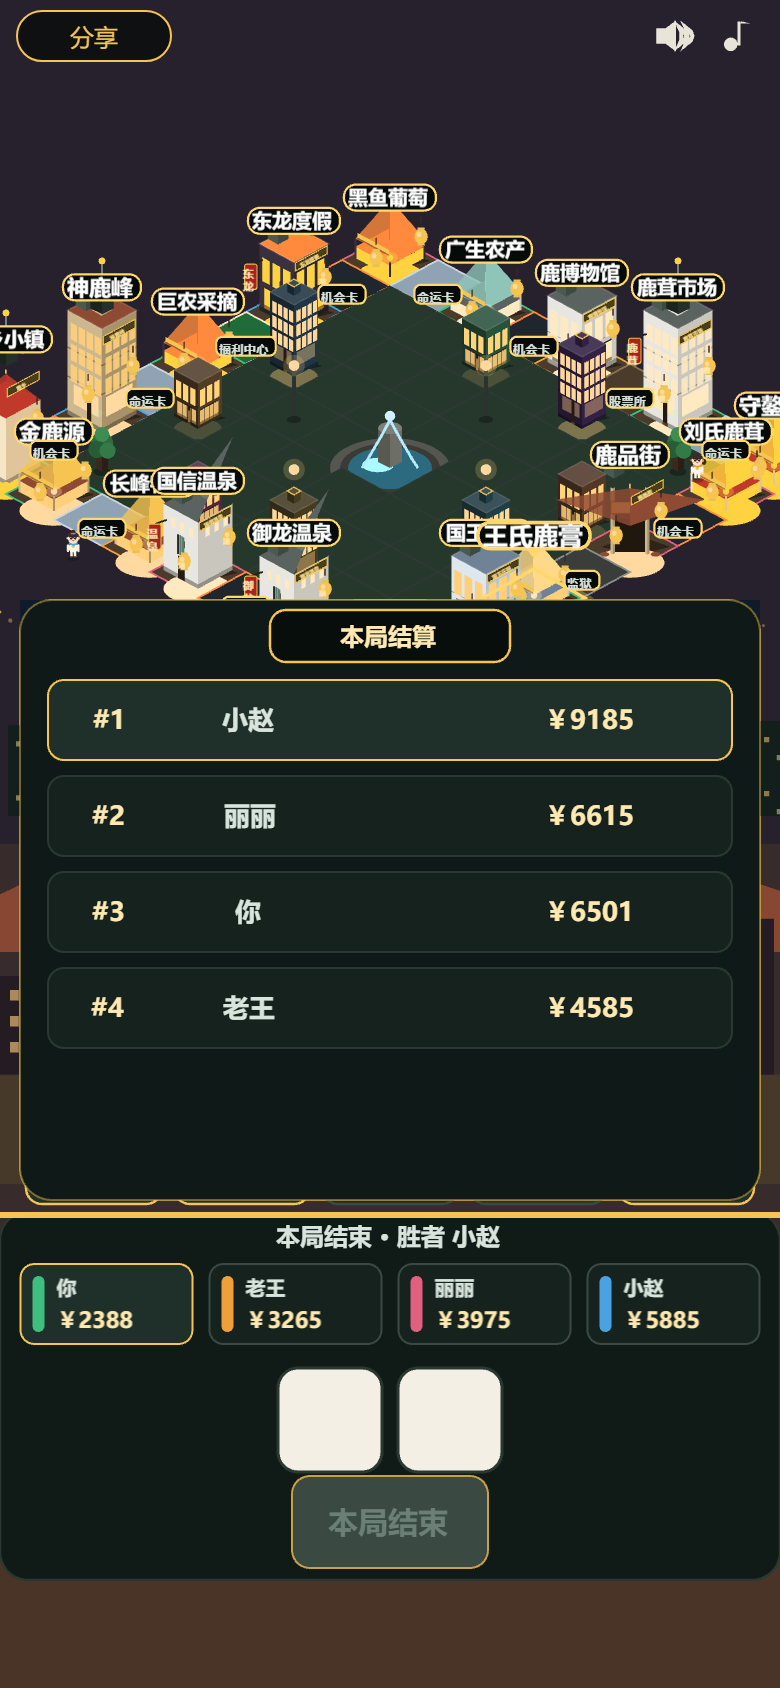
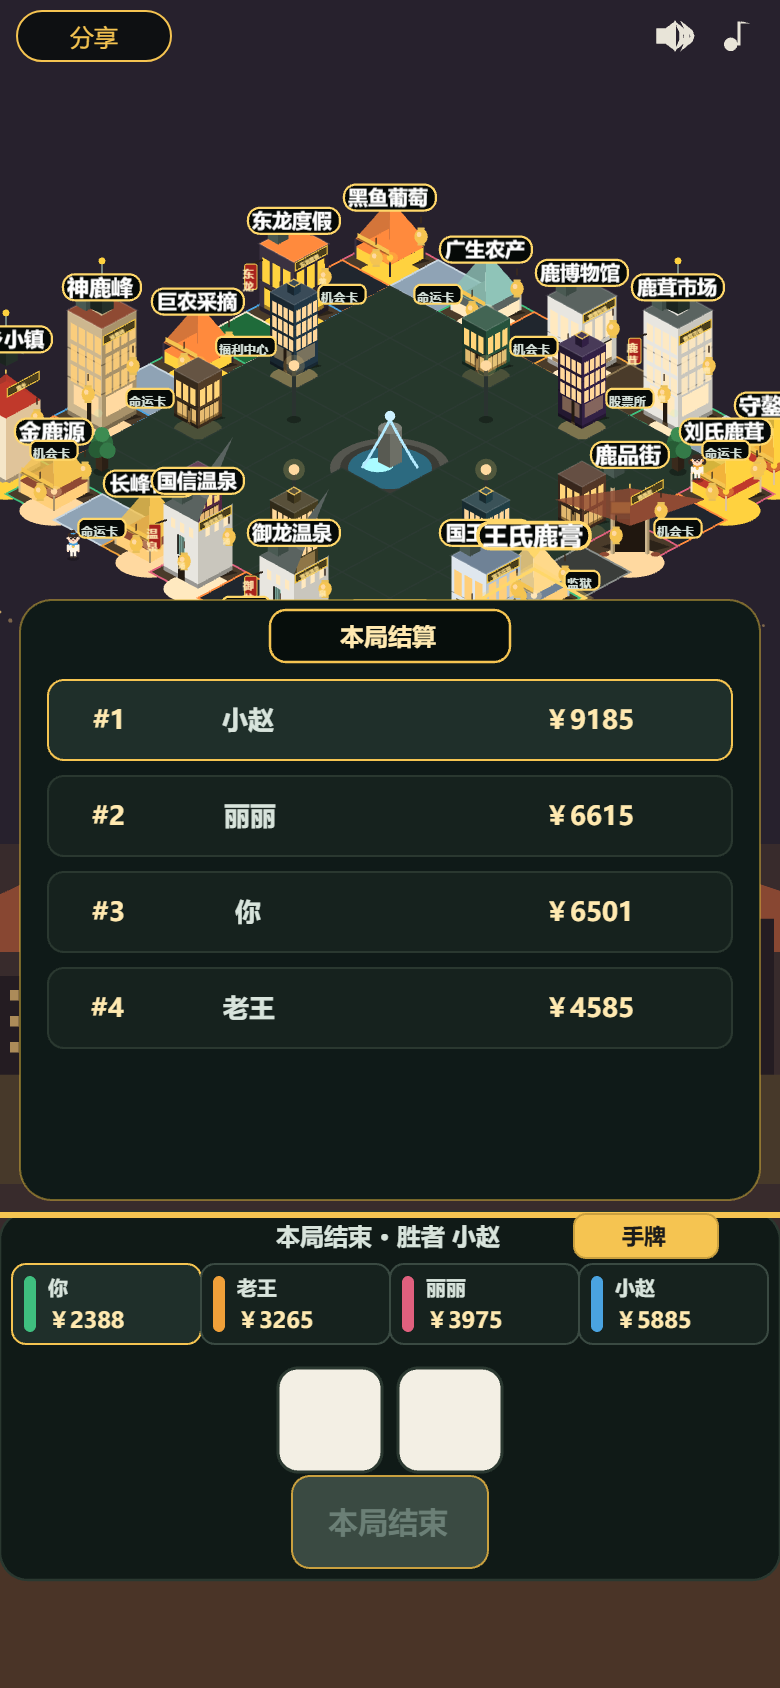
feat(mono): 新增游戏内风格控制台（逐栋选色/批量/单素材微调/导出 JSON），仅 ?debug=1
- src/ui/themeConsole.ts：点棋盘任一格拾取元素（台位命中矩形，近处优先/同格取体量大者）→ 5 套 palette 色卡点选即 paint() 实时预览；按类批量（全部 L1/L2/L3 · 全部道具 · 全部环境层 bg.*）；选中元素 params JSON 表单（单素材独立风格入口）；导出 theme.json（原始 bindings + 每条改动转精确 id binding，可直接回填 config/theme.json）

- main.ts：instantiateDeps 提为可变对象（控制台就地改写 theme 字段），debug 块内装配控制台并把句柄挂 __monoMain.themeConsole 供闸门 V3/V4 程序化驱动

- 改动只在内存，绝不写 localStorage（避免与 ?skin= 语义互串）；生产版（无 ?debug=1）零占用，已实测无控制台节点

- 本地自检：tsc 通过、check 54 文件/492 例全绿、check-hardcoded clean；实测 s4.l2 换 night-neon 即时生效、prop.signTower.glow=false 不影响其它 prop.*、导出末条即改动、reset 还原；顺带更新 e2e 终局截图（上次整局点击跑通产出）

diff --git a/monopoly/src/ui/themeConsole.ts b/monopoly/src/ui/themeConsole.ts
@@ -1,0 +1,304 @@
+/**
+ * 游戏内风格控制台（spec §9）：**仅 `?debug=1` 挂载**，生产版零占用。
+ *
+ * 能力：逐栋选色（点棋盘任一格 → 5 套色卡）、按类批量（全部 L1/L2/L3 · 全部道具 · 全部环境层）、
+ * 单素材 `params` 微调、导出完整 `theme.json`（复制回填 `public/config/theme.json`）。
+ *
+ * 铁律：改动**只存内存**（本模块的 `edits` 表），绝不写 `localStorage`——避免与 `?skin=` 语义互串；
+ * 权威永远是 `theme.json`。导出 = 「原始 bindings + 每条改动转成的精确 id binding」（后写覆盖先写）。
+ *
+ * 本模块不含任何绘制逻辑：写回经 `deps.apply()`，由 `main.ts` 重算生效补丁并 `paint()` 实时预览。
+ */
+import { resolvePlacement, type PlacementOpts } from '../render/Scene';
+import type { Geo } from '../render/iso';
+import type { Instance } from '../skin/instantiate';
+import { STAGE_H, STAGE_W } from '../skin/layout';
+import type { Theme, ThemeBinding, ThemePatch } from '../skin/theme';
+
+export interface ThemeConsoleDeps {
+  /** 编译前的 `theme.json`（色卡与导出 JSON 的基准） */
+  theme: Theme;
+  /** 全部注册表元素 id（批量指派的作用域） */
+  ids: string[];
+  geo: Geo;
+  placement: PlacementOpts;
+  /** 当前场景实例（点选命中用；每帧重建，故取回调而非快照） */
+  instances: () => Instance[];
+  /** 读当前**生效**补丁（params 表单初值 = 实际生效值，避免「看到的和生效的不一样」） */
+  patchOf: (id: string) => ThemePatch | undefined;
+  /** 写回：`基准 ⊕ edits` 重算生效补丁并重画（实时预览） */
+  apply: (edits: Record<string, ThemePatch>) => void;
+}
+
+export interface ThemeConsoleHandle {
+  mount(root: HTMLElement): void;
+  /** 给一组元素指派 palette：单个传 id、批量传正则（面板按钮与闸门共用同一入口） */
+  setPalette(target: string | RegExp, paletteId: string): void;
+  /** 单素材 `params` 覆盖（逐键压过 palette）——「单素材独立风格」的可视化入口 */
+  setParams(id: string, params: Record<string, unknown>): void;
+  /** 当前内存改动（只读快照） */
+  edits(): Record<string, ThemePatch>;
+  /** 完整 `theme.json`：原始 bindings + 每条改动（可直接回填 config/theme.json） */
+  exportJson(): Theme;
+  /** 丢弃全部内存改动，回到 `theme.json` 原样 */
+  reset(): void;
+}
+
+/** 批量指派的作用域（spec §9）：「全部环境层」= `AtmosphereView` 的 `bg.*` 七件 */
+const BATCHES: { label: string; re: RegExp }[] = [
+  { label: '全部 L1', re: /^building\.[^.]+\.l1$/ },
+  { label: '全部 L2', re: /^building\.[^.]+\.l2$/ },
+  { label: '全部 L3', re: /^building\.[^.]+\.l3$/ },
+  { label: '全部道具', re: /^prop\./ },
+  { label: '全部环境层', re: /^bg\./ },
+];
+
+/** 可点选元素：与 `theme.json` 的 binding 域一致（UI / 特效 / 棋子的颜色走 skin tokens，不由本表管） */
+const PICKABLE = /^(building|board|prop)\./;
+
+/** 命中容差：菱形下沿外扩，点格子边缘也算命中该格 */
+const PICK_PAD = 6;
+
+export function createThemeConsole(deps: ThemeConsoleDeps): ThemeConsoleHandle {
+  /** 内存改动表（唯一状态；`apply()` 时与基准补丁重算，故不会累积漂移） */
+  const edits: Record<string, ThemePatch> = {};
+  const paletteIds = Object.keys(deps.theme.palettes);
+  let selected: string | null = null;
+  /** 批量按钮使用的「当前色卡」：点色卡即更新，故批量永远跟随最近一次预览选择 */
+  let picked: string | null = paletteIds[0] ?? null;
+
+  let box: HTMLDivElement | null = null;
+  let idInput: HTMLInputElement | null = null;
+  let paramsArea: HTMLTextAreaElement | null = null;
+  let exportArea: HTMLTextAreaElement | null = null;
+  let batchHint: HTMLSpanElement | null = null;
+  const swatches: HTMLButtonElement[] = [];
+
+  const idsFor = (target: string | RegExp): string[] =>
+    (typeof target === 'string' ? [target] : deps.ids.filter((id) => target.test(id)));
+
+  const flush = (): void => { deps.apply({ ...edits }); };
+
+  /** 面板刷新：选中 id / params 实际生效值 / 色卡高亮 / 批量提示（改动后与点选后各调一次） */
+  const sync = (): void => {
+    if (idInput) idInput.value = selected ?? '';
+    if (paramsArea) {
+      const p = selected ? deps.patchOf(selected)?.params ?? {} : {};
+      paramsArea.value = JSON.stringify(p, null, 1);
+    }
+    for (const [i, b] of swatches.entries()) {
+      const on = paletteIds[i] === picked;
+      b.style.outline = on ? '2px solid #f5c451' : 'none';
+    }
+    if (batchHint) batchHint.textContent = picked ?? '（无）';
+  };
+
+  const setPalette: ThemeConsoleHandle['setPalette'] = (target, paletteId) => {
+    const pal = deps.theme.palettes[paletteId];
+    if (!pal || Object.keys(pal).length === 0) return;
+    for (const id of idsFor(target)) {
+      const prev = edits[id];
+      /* palette 展开成 params（与 compileTheme 同口径）⇒ 导出即「钉住的逐元素补丁」 */
+      edits[id] = { preset: prev?.preset, params: { ...(prev?.params ?? {}), ...pal } };
+    }
+    picked = paletteId;
+    if (typeof target === 'string') selected = target;
+    flush();
+    sync();
+  };
+
+  const setParams: ThemeConsoleHandle['setParams'] = (id, params) => {
+    const prev = edits[id];
+    edits[id] = { preset: prev?.preset, params: { ...(prev?.params ?? {}), ...params } };
+    selected = id;
+    flush();
+    sync();
+  };
+
+  /** 屏幕坐标 → 元素 id：按台位命中矩形拾取（近处优先、同格取体量大者），非网格元素（`bg.*`）走 id 输入框 */
+  const pickAt = (x: number, y: number): string | null => {
+    const hits: { id: string; near: number; tall: number }[] = [];
+    for (const inst of deps.instances()) {
+      if (!PICKABLE.test(inst.id)) continue;
+      const p = resolvePlacement(
+        { id: inst.id, c: inst.c, r: inst.r, slot: inst.slot, lift: inst.lift, box: inst.box, mount: inst.mount, scale: inst.scale },
+        deps.geo,
+        deps.placement,
+      );
+      const hw = (inst.box.w / 2) * p.s;
+      const hh = (inst.box.d / 2) * p.s;
+      if (x < p.cx - hw || x > p.cx + hw) continue;
+      if (y < p.cy - hh - inst.box.h * p.s || y > p.cy + hh + PICK_PAD) continue;
+      hits.push({ id: inst.id, near: inst.c + inst.r, tall: inst.box.h });
+    }
+    if (hits.length === 0) return null;
+    hits.sort((a, b) => b.near - a.near || b.tall - a.tall);
+    return hits[0].id;
+  };
+
+  const onCanvasDown = (ev: MouseEvent): void => {
+    const canvas = document.getElementById('stage');
+    if (!canvas) return;
+    const rect = canvas.getBoundingClientRect();
+    if (rect.width === 0 || rect.height === 0) return;
+    const x = (ev.clientX - rect.left) * (STAGE_W / rect.width);
+    const y = (ev.clientY - rect.top) * (STAGE_H / rect.height);
+    const id = pickAt(x, y);
+    if (!id) return;
+    selected = id;
+    sync();
+  };
+
+  /** 完整 `theme.json`：原始 bindings + 每条改动（后写覆盖先写，故新增条目必定生效） */
+  const exportJson = (): Theme => ({
+    palettes: deps.theme.palettes,
+    bindings: [
+      ...deps.theme.bindings,
+      ...Object.entries(edits).map(([id, p]): ThemeBinding => ({
+        match: id,
+        ...(p.preset ? { preset: p.preset } : {}),
+        params: { ...p.params },
+      })),
+    ],
+  });
+
+  const reset = (): void => {
+    for (const id of Object.keys(edits)) delete edits[id];
+    flush();
+    sync();
+  };
+
+  const line = (text: string, css = ''): HTMLDivElement => {
+    const d = document.createElement('div');
+    d.style.cssText = css;
+    d.textContent = text;
+    return d;
+  };
+
+  const row = (): HTMLDivElement => {
+    const d = document.createElement('div');
+    d.style.cssText = 'display:flex;gap:4px;flex-wrap:wrap;margin-top:4px';
+    return d;
+  };
+
+  const smallBtn = (label: string): HTMLButtonElement => {
+    const b = document.createElement('button');
+    b.textContent = label;
+    b.style.cssText =
+      'padding:2px 6px;border-radius:5px;cursor:pointer;font:inherit;' +
+      'border:1px solid #f5c451;background:rgba(245,196,81,.12);color:#f5c451';
+    return b;
+  };
+
+  return {
+    mount(root) {
+      box = document.createElement('div');
+      box.id = 'mono-theme-console';
+      box.style.cssText =
+        'position:fixed;left:6px;top:6px;width:198px;max-height:54vh;overflow:auto;z-index:11;' +
+        'background:rgba(6,10,8,.92);color:#d8e4dc;font:11px/1.5 ui-monospace,monospace;' +
+        'padding:6px 8px;border-radius:8px;border:1px solid rgba(245,196,81,.45)';
+      box.appendChild(line('风格控制台 · 仅 ?debug=1（改动只存内存）', 'color:#f5c451'));
+
+      if (paletteIds.length === 0) {
+        box.appendChild(line('theme.json 未加载：色卡不可用（导出仍可用）', 'color:#e08b7a'));
+      }
+
+      /* 选中元素：点棋盘任一格即填入；也可手输 id 选非网格元素（如 bg.streetLamp / prop.signTower） */
+      const idRow = row();
+      idRow.appendChild(line('选中'));
+      idInput = document.createElement('input');
+      idInput.style.cssText = 'flex:1;min-width:0;font:inherit;background:#101a16;color:#d8e4dc;border:1px solid #3a4a42;border-radius:4px;padding:1px 3px';
+      idInput.placeholder = '点棋盘 / 输 id';
+      idInput.addEventListener('change', () => { selected = idInput?.value.trim() || null; sync(); });
+      idRow.appendChild(idInput);
+      box.appendChild(idRow);
+
+      /* 5 套 palette 色卡：点一枚即给选中元素套色并实时预览（spec §9「逐栋选色」） */
+      const palRow = row();
+      for (const id of paletteIds) {
+        const pal = deps.theme.palettes[id] ?? {};
+        const b = smallBtn(id);
+        b.style.background = pal.wallL ?? '#101a16';
+        b.style.color = '#1b1b1b';
+        b.style.borderColor = pal.roof ?? '#f5c451';
+        b.title = Object.entries(pal).map(([k, v]) => `${k} ${v}`).join('\n');
+        b.onclick = () => { if (selected) setPalette(selected, id); else { picked = id; sync(); } };
+        swatches.push(b);
+        palRow.appendChild(b);
+      }
+      box.appendChild(palRow);
+
+      /* 按类批量（spec §9）：作用域见 BATCHES，色卡用最近一次预览选择 */
+      const bRow = row();
+      const head = line('批量 → ');
+      batchHint = document.createElement('span');
+      batchHint.style.color = '#f5c451';
+      head.appendChild(batchHint);
+      bRow.appendChild(head);
+      box.appendChild(bRow);
+      const cRow = row();
+      for (const { label, re } of BATCHES) {
+        const b = smallBtn(label);
+        b.onclick = () => { if (picked) setPalette(re, picked); };
+        cRow.appendChild(b);
+      }
+      box.appendChild(cRow);
+
+      /* 单素材微调：选中元素的 params（已含 palette 展开值），改哪个键就覆盖哪个键 */
+      box.appendChild(line('params（选中元素）', 'margin-top:6px;color:#9fb3a8'));
+      paramsArea = document.createElement('textarea');
+      paramsArea.style.cssText = 'width:100%;height:74px;box-sizing:border-box;font:inherit;background:#101a16;color:#d8e4dc;border:1px solid #3a4a42;border-radius:4px';
+      box.appendChild(paramsArea);
+      const pRow = row();
+      const applyBtn = smallBtn('应用 params');
+      applyBtn.onclick = () => {
+        if (!selected || !paramsArea) return;
+        try {
+          const parsed: unknown = JSON.parse(paramsArea.value);
+          if (typeof parsed !== 'object' || parsed === null || Array.isArray(parsed)) throw new Error('需要对象');
+          setParams(selected, parsed as Record<string, unknown>);
+        } catch (e) {
+          box?.appendChild(line(`params 不是合法对象 JSON：${String(e)}`, 'color:#e08b7a'));
+        }
+      };
+      pRow.appendChild(applyBtn);
+      const dropBtn = smallBtn('清空该元素改动');
+      dropBtn.onclick = () => {
+        if (selected) delete edits[selected];
+        flush();
+        sync();
+      };
+      pRow.appendChild(dropBtn);
+      box.appendChild(pRow);
+
+      /* 导出：原始 bindings + 每条改动（后写覆盖先写）⇒ 可直接回填 public/config/theme.json */
+      const eRow = row();
+      const expBtn = smallBtn('导出 theme.json');
+      expBtn.onclick = () => {
+        const json = JSON.stringify(exportJson(), null, 2);
+        if (exportArea) exportArea.value = json;
+        console.log('[mono] theme.json', json);
+      };
+      eRow.appendChild(expBtn);
+      const resetBtn = smallBtn('还原全部改动');
+      resetBtn.onclick = () => { reset(); };
+      eRow.appendChild(resetBtn);
+      box.appendChild(eRow);
+      exportArea = document.createElement('textarea');
+      exportArea.readOnly = true;
+      exportArea.style.cssText = 'width:100%;height:54px;box-sizing:border-box;font:inherit;background:#101a16;color:#9fe;border:1px solid #3a4a42;border-radius:4px';
+      box.appendChild(exportArea);
+
+      root.appendChild(box);
+      document.getElementById('stage')?.addEventListener('pointerdown', onCanvasDown as EventListener);
+      sync();
+    },
+
+    setPalette,
+    setParams,
+    exportJson,
+    reset,
+    edits() { return { ...edits }; },
+  };
+}

diff --git a/monopoly/src/main.ts b/monopoly/src/main.ts
@@ -1,5 +1,6 @@
 import { createStage } from './render/stage';
 import { createDebugPanel } from './debug/panel';
+import { createThemeConsole, type ThemeConsoleHandle } from './ui/themeConsole';
 import { loadSkin } from './skin/skinLoader';
 import { Scene } from './render/Scene';
 import type { PlacementOpts } from './render/Scene';
@@ -38,7 +39,7 @@ import {
 } from './skin/theme';
 import { preloadRelative, preloadSkinAssets } from './render/assets';
 import { createFx, motionFor, timeScaleFrom, type FxContext, type FxHandle, type FxKind } from './render/fx';
-import type { ElementSpec } from './skin/instantiate';
+import type { ElementSpec, InstantiateDeps } from './skin/instantiate';
 
 export const VERSION = '0.1.0';
 
@@ -185,13 +186,15 @@ export async function boot(): Promise<void> {
     pawnGap: 9.6, pawnFrontDy: 1.45, pawnScale: 0.62,
     buildingScale: BUILDING_SCALE, buildingYOffset: BUILDING_Y_OFFSET,
   };
+  /* 主题补丁挂在一个**可变对象**上：`?debug=1` 的风格控制台就地改写 `theme` 字段即可实时预览（spec §9） */
+  const instantiateDeps: InstantiateDeps = {
+    skin, defaultSkin, overrides: shops.overrides, theme: themePatch, slotLevels,
+  };
   const scene = new Scene({
     layers: stage.layers,
     geo,
     bg: { color: tokens.bgBottom ?? '#0c1513', alpha: 1 },
-    instantiateDeps: {
-      skin, defaultSkin, overrides: shops.overrides, theme: themePatch, slotLevels,
-    },
+    instantiateDeps,
     /* 台位（唯一一份）：Scene 的落位与「气泡锚在棋子头顶」共用，改这里即两处同步 */
     placement: PLACEMENT,
     assetBase: './skins',
@@ -511,6 +514,8 @@ export async function boot(): Promise<void> {
 
   paint();
 
+  /** 风格控制台句柄（仅 `?debug=1` 有值；同时挂到 `__monoMain` 供闸门 V3/V4 程序化驱动） */
+  let themeConsole: ThemeConsoleHandle | null = null;
   if (opts.debug) {
     const panel = createDebugPanel();
     panel.mount(document.body);
@@ -519,6 +524,18 @@ export async function boot(): Promise<void> {
       next.searchParams.set('show', v);
       location.href = next.toString();
     });
+
+    /* —— 风格控制台（spec §9）：逐栋选色 / 批量指派 / 单素材 params / 导出 theme.json ——
+       改动只在内存：每次写回都从「基准补丁 ⊕ 内存改动」重算，故永不累积漂移；`?theme=off` 下
+       基准为空表，控制台仍可当纯预览用。 */
+    const basePatch = themePatch ?? {};
+    themeConsole = createThemeConsole({
+      theme, ids, geo, placement: PLACEMENT,
+      instances: () => scene.instancesOf(),
+      patchOf: (id) => instantiateDeps.theme?.[id],
+      apply: (edits) => { instantiateDeps.theme = mergePatches(basePatch, edits); paint(); },
+    });
+    themeConsole.mount(document.body);
   }
 
   /** 端到端整局：headless 跑到分出胜负并重画，返回胜者 id（1..4） */
@@ -575,7 +592,7 @@ export async function boot(): Promise<void> {
   (window as unknown as Record<string, unknown>).__monoMain = {
     stage, scene, opts, geo, skin, missingAssets, game, paint, sim, fx, fxPreview, perf, shops, VERSION,
     audio, seats, aiDriver: driver, hudSeats: () => seats,
-    tutorial: () => tutorial, mountTutorial: replayTour,
+    tutorial: () => tutorial, mountTutorial: replayTour, themeConsole,
   };
 }
 
